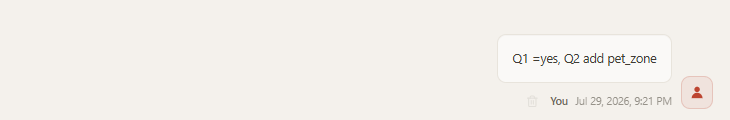
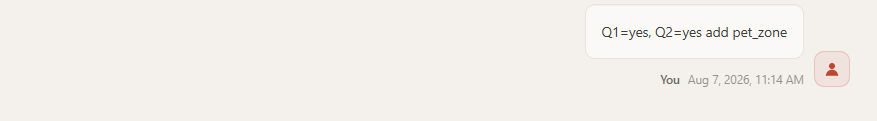
[Agentic-Smart-Community] Update register usecase guide (#3645)

diff --git a/metro-ai-suite/agentic-smart-community/docs/user-guide/how-to-guides/register-new-use-case.md b/metro-ai-suite/agentic-smart-community/docs/user-guide/how-to-guides/register-new-use-case.md
@@ -5,6 +5,7 @@ A *use case* tells the platform what to watch for in a video stream — for exam
 By the end of this guide you will know how to:
 
 - register a new use case through a conversation, step by step with screenshots;
+- configure the bound monitor's pipeline (object prefilter and ROI focus) through the same conversation;
 - verify the detection results stored in the database;
 - write a use-case description that produces accurate detection;
 - delete a use case, again by conversation.
@@ -15,21 +16,31 @@ By the end of this guide you will know how to:
 
 ## Use case registration flow
 
-Registering a use case is a short conversation with the agent, with **two mandatory confirmation gates** — the agent pauses and waits for your explicit reply at each one:
+Registering a use case is a short conversation with the agent, guarded by **mandatory cross-turn confirmation gates** — two for the use-case design and, whenever a camera stream is bound, two more for the monitor pipeline. The agent pauses and waits for your explicit reply at each gate; it never infers an answer from your description, and never treats its own recommendation as your decision:
 
 1. **Describe the use case in chat.** Give the agent a name (lowercase snake_case) and a short natural-language description of what to watch for. The RTSP stream is optional at this point — you can include it in the description, e.g., *"Create a use case `pet_safety`: monitor the pet camera for escape, trapped, or aggressive behavior. Stream: `rtsp://localhost:8554/live/pet`."*, or leave it out and supply it after the use case is registered. The agent collects only this intake — it does not draft anything yet.
 
 2. **Gate 1 — answer the Q1/Q2 questions.** The agent asks the two gating questions and then **ends its turn immediately** — no prompt drafting, no tool calls, no registration until you reply. It never infers the answers from your description, even if you mention alerts or fields:
    - **Q1 — Alerting?** *No* → a report-only use case (no alert schema, no rules). *Yes* → alerting on the base schema `severity, event, desc`.
-   - **Q2 — Extend the schema?** *(only if Q1 = yes)* *No* → **base alerting**: the schema stays `severity, event, desc` and alerts are decided by the built-in rule evaluator (fires on `severity = warn | critical`), no custom code. *Yes* → **extended alerting**: the extra fields you name (e.g., `pet_zone`, `risk_area`) are added on top of the base schema, and a per-use-case `evaluate_rules.py` is generated to decide alerts from them.
+   - **Q2 — Extend the schema?** *(only if Q1 = yes)* *No* → **base alerting**: the schema stays `severity, event, desc` and alerts are decided by the built-in rule evaluator (fires on `severity = warn | critical`), no custom code. *Yes* → **extended alerting**: the extra fields you name (e.g., `pet_zone`, `risk_area`) are added on top of the base schema, and a per-use-case `evaluate_rules.py` — your custom alert policy — is generated to decide alerts from them.
 
 3. **Gate 2 — confirm the resolved design.** From your Q1/Q2 answers the agent resolves everything else with conservative defaults (event names, severity assignments, evidence minimums, priority) and shows the proposed design for approval: the mode (*report-only* / *base alerting* / *extended alerting*), the **Final Schema**, the **Rule Path**, and a compact **Detection Contract** (event values with severity defaults). Again it ends its turn — registration starts only after a later message explicitly approves, e.g., `confirm`.
 
-4. **The agent registers it.** After approval it drafts the four-section VLM prompt (plus `evaluate_rules.py` for every extended schema or custom alert policy), then calls `smartbuilding_use_case_register` in two steps — `action=generate_task` (POSTs the video-summary task to `multilevel-video-understanding` and writes `use-cases/<name>/prompt.md`), followed by `action=register` with `persist=true` (applies the schema, updates `use_case_dict`, and writes `config.yaml`). A built-in consistency gate validates prompt ↔ schema ↔ rules and rejects mismatches before side effects.
+4. **The agent registers the use case.** After approval it drafts the four-section VLM prompt (plus `evaluate_rules.py` for every extended schema or custom alert policy), then calls `smartbuilding_use_case_register` in two steps — `action=generate_task` (POSTs the video-summary task to `multilevel-video-understanding` and writes `use-cases/<name>/prompt.md`), followed by `action=register` with `persist=true` (applies the schema, updates `use_case_dict`, and writes `config.yaml`). A built-in consistency gate validates prompt ↔ schema ↔ rules and rejects mismatches before side effects. Monitor binding does not start until registration returns `ok:true`.
 
-5. **Bind a camera (optional, either timing).** If you supplied a stream URL in the description, the agent registers the monitor (`smartbuilding_monitor_ctl register_source`) as part of the registration flow. If you didn't, just provide the RTSP stream later in the same conversation — the agent binds a monitor to that stream for the registered use case then, e.g., *"bind `rtsp://localhost:8554/live/pet` to pet_safety"*. Either way the result is the same: a monitor (default ID `cam_<use_case>`) bound to the use case and streaming.
+5. **Gate 3 — decide the monitor pipeline (P1/P2).** The monitor gates run whenever a stream URL is involved — supplied at intake or later in the same conversation — whether the use case is new or pre-existing. The agent asks two pipeline decisions and ends its turn:
+   - **P1 — Prefilter?** Enable object-class prefiltering, so motion clips that contain none of the target objects are dropped before they reach the VLM — cutting false positives and VLM cost.
+   - **P2 — ROI focus?** Crop/focus a region of interest. ROI is trajectory-driven off prefilter hits (no geometry to draw), and *yes* applies the template defaults `mode=crop, expand=0.25, auto_split_area=0.35` with no further ROI questions.
 
-When registration finishes, the agent reports a **New Use Case** summary — use case, VLM task, mode, events/findings, final schema, rule path, report source, bound monitor, and validation status — followed by a grouped **System Inventory**: each registered use case (from `smartbuilding_use_case_register action=list`, which reads the server's live in-memory `use_case_dict`) with its bound monitors nested underneath (from `smartbuilding_monitor_ctl action=list`), so a use case with no camera yet shows up explicitly as `(no camera bound yet)` instead of disappearing from a monitors-only list — expected when you plan to supply the RTSP stream after registration. The use case is live immediately — alerts start flowing to any client subscribed to `smartbuilding://monitor/<monitor_id>/alerts`.
+   Reply exactly `P1=yes|no, P2=yes|no`. If you answer `P1=no, P2=yes`, the agent warns that ROI has no trajectory source without prefilter and asks you to enable prefilter or drop ROI.
+
+6. **Pick the prefilter target classes (P1 = yes only).** The agent fetches the selectable classes from the deployed detection model (`smartbuilding_monitor_ctl action=prefilter_options`) and presents the returned class names verbatim for you to pick from — it never selects for you, and a name outside the model's list is rejected server-side at registration.
+
+7. **Gate 4 — confirm the exact `pipeline_config`.** The agent assembles the full `pipeline_config` and displays it in full — no hidden or summarized fields — together with a human-readable decision summary (prefilter on/off, target classes, labels source, ROI on/off and its parameters, monitor ID, persistence). Even a deliberate "both off" is displayed as an explicit disabled config (`prefilter.enabled=false`, `roi.enabled=false`), so an intentional "off" stays distinguishable from "never configured". Only after a later message approves that exact config — reply `confirm pipeline_config` — does the agent call `smartbuilding_monitor_ctl action=register_source` (an upsert; a new monitor gets the default ID `cam_<use_case>`, `persist=true` mirrors it into `monitors.yaml`).
+
+When registration finishes, the agent reports a **New Use Case** summary — use case, VLM task, mode, events/findings, final schema, rule path, report source, bound monitor, and validation status — plus a **Monitor Created** block when a monitor was bound (monitor ID, source URL, prefilter/ROI decisions, and the exact approved `pipeline_config`), followed by a grouped **System Inventory**: each registered use case (from `smartbuilding_use_case_register action=list`, which reads the server's live in-memory `use_case_dict`) with its bound monitors nested underneath (from `smartbuilding_monitor_ctl action=list`), so a use case with no camera yet shows up explicitly as `(no camera bound yet)` instead of disappearing from a monitors-only list — expected when you plan to supply the RTSP stream after registration. Once a monitor is bound, the use case is live immediately — alerts start flowing to any client subscribed to `smartbuilding://monitor/<monitor_id>/alerts`.
+
+If you registered without a stream URL, monitor configuration simply does not start. Provide the RTSP stream later in the same conversation — e.g., *"bind `rtsp://localhost:8554/live/pet` to pet_safety"* — and the agent runs the same P1/P2 and `pipeline_config` gates then, with the same result: a monitor (default ID `cam_<use_case>`) bound to the use case and streaming.
 
 The inventory is printed automatically only when a use case is created. To check the system's use cases at any other time, just ask in the conversation — e.g., *"list all the use cases"* — and the agent returns the same grouped view (each use case with its task, rule path, and bound monitors) on demand.
 
@@ -37,7 +48,7 @@ The inventory is printed automatically only when a use case is created. To check
 
 ## Walkthrough: register a use case with OpenClaw
 
-This section walks through a complete registration conversation in OpenClaw, using a **pet-safety detection** use case as the example. It takes the extended-schema path so you can see how `evaluate_rules.py` is produced.
+This section walks through a complete registration conversation in OpenClaw, using a **pet-safety detection** use case as the example. It takes the extended-schema path so you can see how `evaluate_rules.py` is produced, and binds the stream with both prefilter and ROI enabled so you can see both monitor-pipeline gates.
 
 ### Step 0 — Start a new session with a strong model
 
@@ -45,60 +56,60 @@ Run `openclaw dashboard` to open the OpenClaw chat interface (Control UI) in you
 
 ### Step 1 — Describe the use case
 
-Tell OpenClaw the use-case name, what to detect, and what an alert should mean. Be as concrete as you can — this description is what the VLM prompt is compiled from (see [Write a good use-case description](#write-a-good-use-case-description)):
+Tell OpenClaw the use-case name, what to detect, and — optionally — the RTSP stream to bind. Be as concrete as you can about the detection targets — this description is what the VLM prompt is compiled from (see [Write a good use-case description](#write-a-good-use-case-description)):
 
 > *Register a Pet Safety use case to monitor pets for escape attempts, entrapment incidents, and aggressive behavior. The RTSP stream address is `rtsp://localhost:8554/live/pet`.*
 
-![Describing the new use case to OpenClaw](../_assets/openclaw-uc-register-describe.png)
+<img src="../_assets/openclaw-uc-register-describe.png" alt="Describing the new use case to OpenClaw" width="900">
 
 ### Step 2 — Answer Q1/Q2 (gate 1)
 
-OpenClaw does not draft anything yet. It reads the `smartbuilding-use-case-manager` skill, then asks the two gating questions and **stops** — the turn ends right after the questions:
+OpenClaw does not draft anything yet. It loads the `smartbuilding-use-case-manager` skill, then asks the two gating questions and **stops** — the turn ends right after the questions, with no files changed and no other tool called:
 
-- **Q1 — Alerting?** Does this use case need to raise alerts? *No* → report-only (Final Schema = none, Rule Path = none); *Yes* → structured alerting on the base schema `severity, event, desc`.
-- **Q2 — Schema extension?** *(only if Q1 = Yes)* Persist fields beyond `severity / event / desc`? *No* → base alerting with `defaultRuleEvaluator`; *Yes* → extended alerting — name each extra field and its type (e.g., `zone_id (text)`, `pet_count (integer)`), and a per-use-case `evaluate_rules.py` will be generated.
+- **Q1 — Alerting?** Does this use case need to raise alerts? *No* → report-only mode: no alert rows, no rules; *Yes* → structured alerts with a primary event per clip, on the base schema `severity, event, desc`.
+- **Q2 — Schema extension?** *(only if Q1 = Yes)* Persist fields beyond `severity / event / desc`? *No* → base alerting with `defaultRuleEvaluator`; *Yes* → extended alerting — name each extra field you want persisted (e.g., `pet_type (text)`, `location (text)`), and a per-use-case `evaluate_rules.py` — the custom alert policy — will be generated from the complete final schema.
 
-OpenClaw also flags the **primary-event** constraint: structured realtime persists one primary `EVENT` per clip, so with several named behaviors only one becomes the persisted event and the others can still surface in `desc`.
-
-![OpenClaw asks the Q1/Q2 gating questions](../_assets/openclaw-uc-register-q1q2.png)
+<img src="../_assets/openclaw-uc-register-q1q2-confirm-request.png" alt="OpenClaw asks the Q1/Q2 gating questions" width="900">
 
 Reply explicitly — Q1 and, when Q1 is yes, Q2 — naming any extension fields you need persisted and queryable. Here we add a `pet_zone` field so every alert carries which zone of the room the event happened in:
 
-> *Q1 = yes, Q2 = yes: pet_zone (text, optional)*
+> *Q1=yes, Q2=yes add pet_zone*
 
-![Replying to Q1/Q2](../_assets/openclaw-uc-register-q1q2-confirm.png)
+<img src="../_assets/openclaw-uc-register-q1q2-confirm.png" alt="Replying to Q1/Q2" width="900">
 
 ### Step 3 — Confirm the proposed design (gate 2)
 
-OpenClaw resolves everything else from your description with conservative defaults — event names, severities, evidence minimums, and realtime execution (`SIMPLE`, `levels=1`, so the LOCAL pass decides the persisted fields and immediate alerts) — and shows the proposed design for approval:
+OpenClaw notes that the three named behaviors (escape attempts, entrapment incidents, aggressive behavior) are handled as primary detection **events**, not schema fields, then resolves everything else from your description with conservative defaults — event names, severities, evidence minimums, and realtime execution (`SIMPLE`, `levels=1`, so the LOCAL pass decides the persisted fields and immediate alerts) — and shows the proposed design for approval:
 
-- **Mode:** Extended alerting (single EVENT per clip; other behaviors may surface in `DESC`)
-- **Final Schema:** `severity, event, desc, pet_zone`
-- **Rule Path:** `evaluate_rules.py` (required because of the schema extension)
-- **Report Source:** `alerts`
-- **Detection Contract** — event values with severity defaults:
+- **Use Case:** `pet_safety` · **VLM Task:** `pet_safety_monitor`
+- **Mode:** Extended alerting
+- **Final Schema:** `severity (text), event (text), desc (text), pet_zone (text)`
+- **Rule Path:** `evaluate_rules.py` (built from the complete Final Schema)
+- **Report Source:** `alerts` (daily)
+- **Realtime execution:** `SIMPLE`, `levels=1`, `process_fps=2`
+- **Detection Contract** — event values with severity defaults (primary-event priority `critical > warn > info`):
 
   | EVENT value | Severity | Description |
   |---|---|---|
-  | `escape` | critical | Pet crossing a boundary/door/gap with intent to leave the monitored area, not a transient crossing |
-  | `entrapment` | warn | Pet confined in/under/inside a hazardous enclosure (drawer, appliance, vehicle, container) with distress or no exit path |
-  | `aggressive_behavior` | warn | Pet-directed hostile action toward a person/another pet (bite, sustained attack, raised-threat posture with contact) |
+  | `escape_attempt` | warn | Pet actively trying to get out: pawing/scratching at a door/gate/crack, squeezing under/through a barrier, repeatedly jumping at an exit |
+  | `entrapment` | warn | Pet visibly stuck or unable to free itself: limb/head caught in a gap, leash/door/cage pinning the animal, prolonged distress posture near a hazard |
+  | `aggressive_behavior` | warn | Pet visibly aggressive toward another animal or person: bared teeth, raised hackles, lunging, snapping, sustained chase with hostile posture |
 
-  Plus `info`-level baseline/uncertainty events (`no_incident`, `pet_uncertain`). Extension field: `pet_zone` (text, optional) — the zone where the event was observed, `unknown` when not determinable.
+  Plus an `info`-level uncertainty event (`uncertain`) for behavior that could not be confidently classified. Extension field: `pet_zone` (text) — the zone where the event was observed. Each event also carries a **minimum visible evidence** bar with common look-alikes excluded (e.g., normal door-pawing for attention does not count as `escape_attempt`), and OpenClaw explicitly lists what it did *not* invent: no escalation policy, no critical-only scenarios, no extra business events, no custom alert behavior beyond `pet_zone`.
 
 Nothing is written until you approve it — this is the second gate, and the turn ends with the design on screen:
 
 > *confirm*
 
-![OpenClaw shows the proposed design and detection contract](../_assets/openclaw-uc-register-q1q2-confirm-request.png)
+<img src="../_assets/openclaw-uc-register-q1q2-doubleconfirm-request.png" alt="OpenClaw shows the proposed design and detection contract" width="900">
 
-![Confirming the proposed design](../_assets/openclaw-uc-register-q1q2-confirm-results.png)
+<img src="../_assets/openclaw-uc-register-q1q2-doubleconfirm-results.png" alt="Confirming the proposed design" width="900">
 
 ### Step 4 — Registration and artifacts
 
-Only after your explicit approval does OpenClaw start authoring: it reads the prompt-authoring reference, drafts the four-section VLM prompt and — because the schema is extended — generates `evaluate_rules.py` from the final schema. It then registers the use case in two server-side steps (`generate_task` → `register` with `persist=true`) and binds the stream as monitor `cam_pet_safety`.
+Only after your explicit approval does OpenClaw start authoring: it reads the prompt-authoring reference, drafts the four VLM prompt sections and — because the schema is extended — builds `evaluate_rules.py` from the complete final schema, runs the semantic lint, then registers the use case in two server-side steps (`generate_task` → `register` with `persist=true`).
 
-![OpenClaw starts drafting and registering after approval](../_assets/openclaw-uc-register-approved.png)
+<img src="../_assets/openclaw-uc-register-approved.png" alt="OpenClaw starts drafting and registering after approval" width="900">
 
 Both artifacts are archived under the data directory — `$SMARTBUILDING_DATA_DIR/use-cases/<use_case>/` (default `~/.mcp-smartbuilding`):
 
@@ -115,14 +126,78 @@ Both artifacts are archived under the data directory — `$SMARTBUILDING_DATA_DI
 
 On the **default rule path** (Q2=no) only `prompt.md` is archived — alerts are decided by the built-in evaluator on `severity = warn | critical`. A **report-only** use case (Q1=no) archives `prompt.md` and has no schema and no rule at all.
 
-The final chat report has two parts:
+### Step 5 — Answer P1/P2 (monitor decision gate)
 
-1. **New Use Case** — the use case (`pet_safety`), VLM task (`pet_safety_monitor`), mode (extended alerting), events/findings (`escape` critical, `entrapment` warn, `aggressive_behavior` warn, plus `no_incident` / `pet_uncertain` at info), final schema, rule path, report source, and the bound monitor `cam_pet_safety → rtsp://localhost:8554/live/pet`.
-2. **System Inventory** — a grouped view of every registered use case with its monitors nested underneath (here `child_safety`, `elder_wakeup`, `fridge`, and the new `pet_safety`); use cases without a camera are listed explicitly as `(no camera bound yet)`.
+Registration returned `ok:true`, and because the intake included a stream URL, OpenClaw now runs the **separate monitor pipeline gates** before binding anything — monitor decisions are never inherited from the use-case answers. It first confirms the preconditions (the `register` call returned `ok:true`, so `pet_safety` exists, and the source URL is known), then asks the two pipeline questions and ends its turn:
+
+- **P1 — Prefilter:** enable object-class prefiltering (drop motion clips without pets before the VLM)?
+- **P2 — ROI focus:** crop/focus a region of interest?
+
+Reply exactly `P1=yes|no, P2=yes|no`. OpenClaw also spells out the consequences up front: P1=yes means you will pick target classes from the deployed model's class list next; P2=yes applies the ROI template defaults (`mode=crop`, `expand=0.25`, `auto_split_area=0.35`) automatically, with no further ROI questions; and `P1=no` together with `P2=yes` draws a warning, because the ROI crop is trajectory-driven off prefilter hits and has no trajectory source without prefilter.
+
+<img src="../_assets/openclaw-uc-register-success-monitor-bind-pipeline-config.png" alt="Registration succeeded and OpenClaw asks the P1/P2 pipeline questions" width="900">
+
+Here we enable both — prefilter keeps non-pet motion away from the VLM, and ROI zooms into the pet's trajectory region:
+
+> *P1=yes P2=yes*
+
+<img src="../_assets/openclaw-uc-register-monitor-config-confirm.png" alt="Replying to P1/P2" width="900">
+
+The same two monitor gates apply whenever a monitor is created, rebound, or updated — including binding a camera to a use case that was registered earlier.
+
+### Step 6 — Pick the prefilter target classes (P1 = yes)
+
+Because P1=yes, OpenClaw fetches the selectable classes from the deployed detection model (`smartbuilding_monitor_ctl action=prefilter_options`) and presents them verbatim. The `labels_source: embedded` flag means the list is authoritative — it came from the model itself, and a class outside the list is rejected server-side at registration. For a home pet camera the relevant animal classes are `cat` and `dog` (the model's COCO-80 label set has no general "pet" class); OpenClaw suggests the safe pick for a typical pet household, but never chooses for you:
+
+<img src="../_assets/openclaw-uc-register-monitor-config-prefilter.png" alt="OpenClaw presents the model's prefilter classes to pick from" width="900">
+
+> *target_classes: cat, dog*
+
+<img src="../_assets/openclaw-uc-register-monitor-config-prefilter-classes-confirm.png" alt="Picking the prefilter target classes" width="900">
+
+P2=yes needs no further input: the ROI template defaults apply verbatim. There is no geometry to draw — the ROI crop is **trajectory-driven**: the prefilter's detection hits accumulate a union box per segment, and the crop is that trajectory region expanded by 25%, with an early segment split when the region grows beyond 35% of the frame.
+
+### Step 7 — Confirm the exact pipeline_config (monitor approval gate)
+
+With every decision collected, OpenClaw assembles the exact `pipeline_config` that will be passed verbatim to `register_source`, and displays it in full — no hidden fields — together with a human-readable decision summary:
+
+```yaml
+pipeline_config:
+  prefilter:
+    enabled: true
+    target_classes: [cat, dog]
+  roi:
+    enabled: true
+    mode: crop
+    expand: 0.25
+    auto_split_area: 0.35
+```
+
+- **Prefilter:** enabled · **Target Classes:** `cat`, `dog` · **Labels Source:** embedded (from the deployed YOLO model)
+- **ROI Focus:** enabled · **ROI Parameters:** defaults (`mode=crop`, `expand=0.25`, `auto_split_area=0.35`)
+- **Monitor ID (default):** `cam_pet_safety` · **Persistence:** enabled (mirrors to `monitors.yaml`)
+
+Nothing is written until you approve this exact config — reply with the exact phrase `confirm pipeline_config`. A general acknowledgement (`ok`, `looks good`, `continue`) does not satisfy this gate, and changing any field after approval voids it — the agent must redisplay the config and ask again.
+
+<img src="../_assets/openclaw-uc-register-monitor-config-doubleconfirm.png" alt="OpenClaw displays the exact pipeline config and decision summary" width="900">
+
+<img src="../_assets/openclaw-uc-register-monitor-config-doubleconfirm-results.png" alt="Confirming the displayed pipeline config" width="900">
+
+### Step 8 — Monitor binding and final report
+
+Only after that approval does OpenClaw call `smartbuilding_monitor_ctl action=register_source` with the approved config. `register_source` is an **upsert** — with no `monitor_id` supplied, the new monitor gets the default ID `cam_pet_safety` — and `persist: true` mirrors it into `~/.mcp-smartbuilding/monitors.yaml`.
+
+The final chat report has three parts:
+
+1. **New Use Case** — the use case (`pet_safety`), VLM task (`pet_safety_monitor`), mode (extended alerting), events/findings (`escape_attempt` / `entrapment` / `aggressive_behavior` at warn, plus `pet_uncertain` / `no_safety_incident` at info), final schema (`severity, event, desc, pet_zone`), rule path (`evaluate_rules.py`), report source (`alerts`, daily), the bound monitor `cam_pet_safety → rtsp://localhost:8554/live/pet` (online, analytics online), and the validation status.
+2. **Monitor Created** — monitor ID `cam_pet_safety`, use case, source URL, prefilter enabled (`cat`, `dog`), ROI focus enabled (template defaults), the exact approved `pipeline_config`, and persistence (mirrored to `monitors.yaml` and `config.yaml`).
+3. **System Inventory** — a grouped view of every registered use case with its monitors nested underneath (here `fridge`, `child_safety`, `elder_wakeup`, and the new `pet_safety`); use cases without a camera are listed explicitly as `(no camera bound yet)`.
+
+<img src="../_assets/openclaw-uc-register-inventory-part1.png" alt="OpenClaw reports the new use case and the monitor it bound" width="900">
+
+<img src="../_assets/openclaw-uc-register-inventory-part2.png" alt="The grouped system inventory after registration" width="900">
 
 Note the **validation status**: *registered but behaviorally unvalidated* — registration only confirms structural alignment of prompt ↔ schema ↔ rules. When you have representative footage, compare the persisted `event / severity / desc / pet_zone` values against ground truth and re-register with `overwrite=true` to refine. From this point the use case is live: pet-safety events start producing alerts on `smartbuilding://monitor/cam_pet_safety/alerts`.
-
-![OpenClaw reports the new use case and the system inventory](../_assets/openclaw-uc-register-final-inventory.png)
 
 ## View detection results in the database
 
@@ -130,11 +205,11 @@ Once the use case is live, all detection result data is stored in the server's S
 
 | Table | What it holds |
 |---|---|
-| `monitors` | Registered video sources — monitor ID, name, RTSP `source_url`, bound `use_case`, and `status` (`online` / `offline`). |
+| `monitors` | Registered video sources — monitor ID, name, RTSP `source_url`, bound `use_case`, and `status` (`online` / `offline`). The approved `pipeline_config` is **not** a column here — it lives in the `monitors.yaml` mirror. |
 | `events` | Raw detection events reported by the video-stream analytics (VSA) pipeline — these are what trigger video-summary tasks. |
 | `sqlite_sequence` | Internal SQLite bookkeeping for `AUTOINCREMENT` primary keys — no user data, safe to ignore. |
 | `recordings` | Recorded video clips associated with events/alerts — file paths, time ranges, duration, and file size, so you can review the footage behind any detection. |
-| `video_summary_tasks` | Per-clip video-summary results — the VLM's `summary_text`, the parsed fields (`event`, `severity`, `desc`, plus any extension fields like `pet_zone`), task status, and token/latency stats. |
+| `video_summary_tasks` | Per-clip video-summary results — the VLM's `summary_text`, the parsed fields (`event`, `severity`, `desc`, plus any extension fields like `pet_zone`), task status, and token/latency stats. Extension columns from every use case sit on this one shared table. |
 | `alerts` | Alerts fired by the rule engine (here, by `evaluate_rules.py`) — monitor/task/event/use-case references, a formatted `description`, notification state, and acknowledgement details. To inspect structured fields such as `severity` and `event`, or the source clip path, follow `task_id` / `event_id` to the corresponding `video_summary_tasks` / `events` row. |
 | `reports` | Generated periodic reports per monitor (e.g., daily summaries) — `report_text`, event/motion counts, report type, status, and generation stats. |
 | `plans` | Per-monitor analysis plans (`plan_json`) — named plan definitions that drive scheduled report/summary generation, with an `active` flag. |
@@ -143,15 +218,15 @@ You don't need to open the database by hand — just ask OpenClaw in the same ch
 
 > *check monitors in smartbuilding.db*
 
-![OpenClaw lists the monitors table](../_assets/db-monitos.png)
+<img src="../_assets/db-monitors.png" alt="OpenClaw lists the monitors table" width="900">
 
-Here the `cam_pet_safety` row is still present but **offline** — the use case has been unregistered, and the row persists only because existing alerts history blocks the delete (see [Delete a use case by conversation](#delete-a-use-case-by-conversation)).
+The freshly registered `cam_pet_safety` row is there and **online**. OpenClaw also shows the `monitors.yaml` mirror next to it, because that is where the approved `pipeline_config` (prefilter `cat`/`dog`, ROI crop defaults) is persisted — the DB row itself carries only `id` / `name` / `use_case` / `status` / `source_url` / `created_at`, and the VLM task name lives in the server's `use_case_dict`, not in this table.
 
 > *check video-summary-tasks in smartbuilding.db*
 
-![OpenClaw summarizes the video_summary_tasks table](../_assets/db-summary.png)
+<img src="../_assets/db-summary.png" alt="OpenClaw summarizes the video_summary_tasks table" width="900">
 
-Here OpenClaw summarizes the detection results: 31 completed tasks in ~5 minutes, 30 classified as `escape_attempt` (critical) — a cat repeatedly trying to climb the balcony railing — all in the same `pet_zone`. This is exactly the place to verify detection quality after registration: if the persisted `event` / `severity` / `pet_zone` values don't match what the camera actually saw, refine the description and re-register with `overwrite=true`.
+Here OpenClaw shows the schema extension applied at register time: the `severity`, `event`, `desc`, and `pet_zone` columns were added to the shared `video_summary_tasks` table via `ALTER TABLE` — the same table also carries `wakeup_time` from the `elder_wakeup` use case, since per-use-case extension columns all land on this one table. The detection summary: 41 tasks so far, all from `cam_pet_safety` (40 completed, one in flight) — mostly `no_safety_incident` (info), with a handful of `escape_attempt` and `entrapment` warnings. This is exactly the place to verify detection quality after registration: if the persisted `event` / `severity` / `pet_zone` values don't match what the camera actually saw, refine the description and re-register with `overwrite=true`.
 
 ## Write a good use-case description
 
@@ -187,31 +262,36 @@ Deleting is also a conversation — ask OpenClaw to remove the use case by name:
 
 > *delete pet safety use case*
 
-![Asking OpenClaw to delete the use case](../_assets/openclaw-uc-unregister-request.png)
+<img src="../_assets/openclaw-uc-unregister-request.png" alt="Asking OpenClaw to delete the use case" width="900">
 
-Because deletion is destructive, OpenClaw does **not** delete on this request. It first fetches the live inventory (`smartbuilding_use_case_register action=list` and `smartbuilding_monitor_ctl action=list`), then shows the exact cascade impact — what will be removed, archived, and stopped, and which other use cases and monitors are *not* affected — and asks for explicit confirmation. The turn ends there; `action=unregister` is never called in the same turn that displays the impact:
+Because deletion is destructive, OpenClaw does **not** delete on this request. It first fetches the live inventory (`smartbuilding_use_case_register action=list` and `smartbuilding_monitor_ctl action=list`), then shows the exact cascade impact — what will be removed, archived, and stopped, and what is kept:
 
-![OpenClaw shows the deletion impact and asks for confirmation](../_assets/openclaw-uc-unregister-confirm.png)
+- **Will be removed:** the `pet_safety` entry from the in-memory `use_case_dict` and from `~/.mcp-smartbuilding/config.yaml`; the bound monitor `cam_pet_safety` (stopped and unregistered, its `monitors.yaml` entry stripped); the VLM task `pet_safety_monitor`; and the artifacts under `use-cases/pet_safety/` (`prompt.md`, `evaluate_rules.py`) — **moved to** `use-cases/.backup/pet_safety/`, so they are recoverable.
+- **Will be kept:** the database is not cascaded — the historical `video_summary_tasks` rows produced by `cam_pet_safety` and the `alerts` rows for `pet_safety` remain as audit history, and the shared schema columns (`severity`, `event`, `desc`, `pet_zone`, …) stay on the table because other use cases share them.
 
-Reply with an explicit confirmation (e.g., `yes, confirm` or `confirm delete pet_safety`) in a later message, and OpenClaw calls `smartbuilding_use_case_register` with `action=unregister`, `persist=true`:
+The turn ends there; `action=unregister` is never called in the same turn that displays the impact. OpenClaw also tells you the exact confirmation phrase it needs — anything else (`yes`, `delete it`, `好的`) will not satisfy the gate and it will ask again:
 
-> *yes, confirm*
+<img src="../_assets/openclaw-uc-unregister-doubleconfirm-request.png" alt="OpenClaw shows the deletion impact and asks for confirmation" width="900">
 
-![Confirming the deletion](../_assets/openclaw-uc-unregister-confirm-result.png)
+Reply with that explicit confirmation in a later message, and OpenClaw calls `smartbuilding_use_case_register` with `action=unregister`, `persist=true`:
 
-The unregister cascade then runs:
+> *confirm delete pet_safety*
 
-- **Removed:** the `use_case_dict.pet_safety` entry from `config.yaml`, and the VLM task `pet_safety_monitor`.
+<img src="../_assets/openclaw-uc-unregister-doubleconfirm-request-result.png" alt="Confirming the deletion" width="900">
+
+The unregister cascade then runs, and OpenClaw reports the final state:
+
+- **Removed:** the `use_case_dict.pet_safety` entry from `config.yaml`, and the VLM task `pet_safety_monitor` from the video-summary service.
 - **Archived:** the `prompt.md` / `evaluate_rules.py` artifacts are moved from `~/.mcp-smartbuilding/use-cases/pet_safety/` to `use-cases/.backup/pet_safety/`, so they are recoverable on disk (re-registering the use case later needs fresh prompt and rule files).
-- **Preserved:** historical alert rows in the `alerts` table and recorded clip/event rows linked to `pet_safety` are kept as audit history and are not part of the unregister cascade.
+- **Preserved:** historical `video_summary_tasks` and `alerts` rows linked to `pet_safety` are kept as audit history (the task rows are now orphaned — their `monitor_id` still resolves, but the use case is gone), and the shared extension columns stay on the table for the remaining use cases.
 
-![OpenClaw reports the deletion result](../_assets/openclaw-uc-unregister-results.png)
+<img src="../_assets/openclaw-uc-unregister-final-results.png" alt="OpenClaw reports the deletion result" width="900">
 
 Check the monitor outcome in the response's `cascaded_monitors`:
 
 - `db_row="deleted"` — the monitor was fully unregistered.
-- `db_row="kept_offline"` — the use case was successfully unregistered, but the monitor row could not be deleted because existing alert history still references it. The server stops the monitor, marks it `offline`, and keeps its `monitors.yaml` entry with `enabled: false`. Do not retry the use-case unregister: the use case has already been removed. You can leave the offline row in place to preserve its audit history. To reuse the monitor later, first re-register the use case, then bind the stream again with the same monitor ID; `register_source` updates and restarts the existing row. To permanently delete the monitor, back up `smartbuilding.db`, remove the alert rows that reference it using direct SQLite maintenance (preferably while the MCP server is stopped), then restart the server and call `smartbuilding_monitor_ctl action=unregister` for that monitor. The `smartbuilding_video_db` MCP tool cannot perform this cleanup because it accepts `SELECT` queries only.
+- `db_row="kept_offline"` — the use case was successfully unregistered, but the monitor row could not be deleted because historical detection rows still reference it (here, the `video_summary_tasks` history produced by `cam_pet_safety`; the foreign-key constraint blocked the row delete). The server falls back to stop: the monitor is marked `offline` and its `monitors.yaml` entry is kept with `enabled: false` — a "zombie" row that cannot process anything, and re-enabling it alone does not help because the use case no longer exists. Do not retry the use-case unregister: the use case has already been removed. You can leave the offline row in place to preserve its audit history. To reuse the monitor later, first re-register the use case, then bind the stream again with the same monitor ID; `register_source` updates and restarts the existing row. To permanently delete the monitor, back up `smartbuilding.db`, remove the rows that reference it (in `video_summary_tasks` / `alerts`) using direct SQLite maintenance (preferably while the MCP server is stopped), then restart the server and call `smartbuilding_monitor_ctl action=unregister` for that monitor. The `smartbuilding_video_db` MCP tool cannot perform this cleanup because it accepts `SELECT` queries only.
 
 ---
 
-For the full authoring rules the agent follows (prompt anchors, schema invariants, retry behavior), see the [`smartbuilding-use-case-manager` skill](https://github.com/open-edge-platform/edge-ai-suites/blob/main/metro-ai-suite/agentic-smart-community/skills/smartbuilding-use-case-manager/SKILL.md) and the [`use_case_register` tool guide](./mcp-tools.md#8-smartbuilding_use_case_register).
+For the full authoring rules the agent follows (prompt anchors, schema invariants, pipeline gates, retry behavior), see the [`smartbuilding-use-case-manager` skill](https://github.com/open-edge-platform/edge-ai-suites/blob/main/metro-ai-suite/agentic-smart-community/skills/smartbuilding-use-case-manager/SKILL.md) and the [`use_case_register`](./mcp-tools.md#8-smartbuilding_use_case_register) / [`monitor_ctl`](./mcp-tools.md#5-smartbuilding_monitor_ctl) tool guides.
